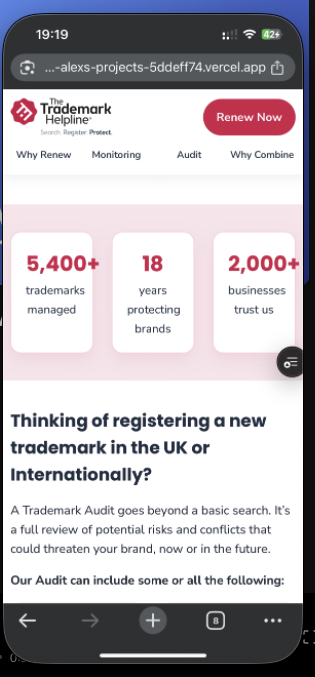
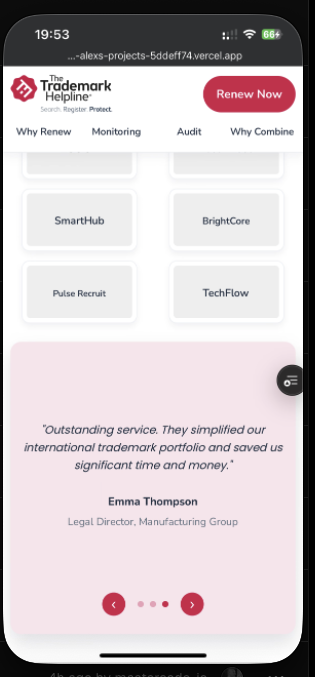
incremental

diff --git a/public/renewal-landing/styles.css b/public/renewal-landing/styles.css
@@ -315,8 +315,8 @@ input[type="checkbox"]:focus {
   .logo-grid { grid-template-columns: repeat(2, minmax(0, 1fr)); gap: 0.6rem; justify-items: center; }
   .client-logo { padding: 0.35rem; width: min(100%, 150px); }
   .client-logo svg { width: 100%; height: auto; }
-  .testimonial-carousel { padding: 1.1rem 0.75rem 3.3rem; min-height: 300px; }
-  .testimonial-card { left: 0.75rem; right: 0.75rem; bottom: 3.3rem; }
+  .testimonial-carousel { padding: 1.1rem 0.75rem 3.3rem; min-height: 300px; max-width: 290px; margin: 0 auto; }
+  .testimonial-card { left: 0.5rem; right: 0.5rem; bottom: 3.3rem; }
   .testimonial-quote { font-size: 0.85rem; }
   .testimonial-author strong { font-size: 0.85rem; }
   .testimonial-author span { font-size: 0.8rem; }
